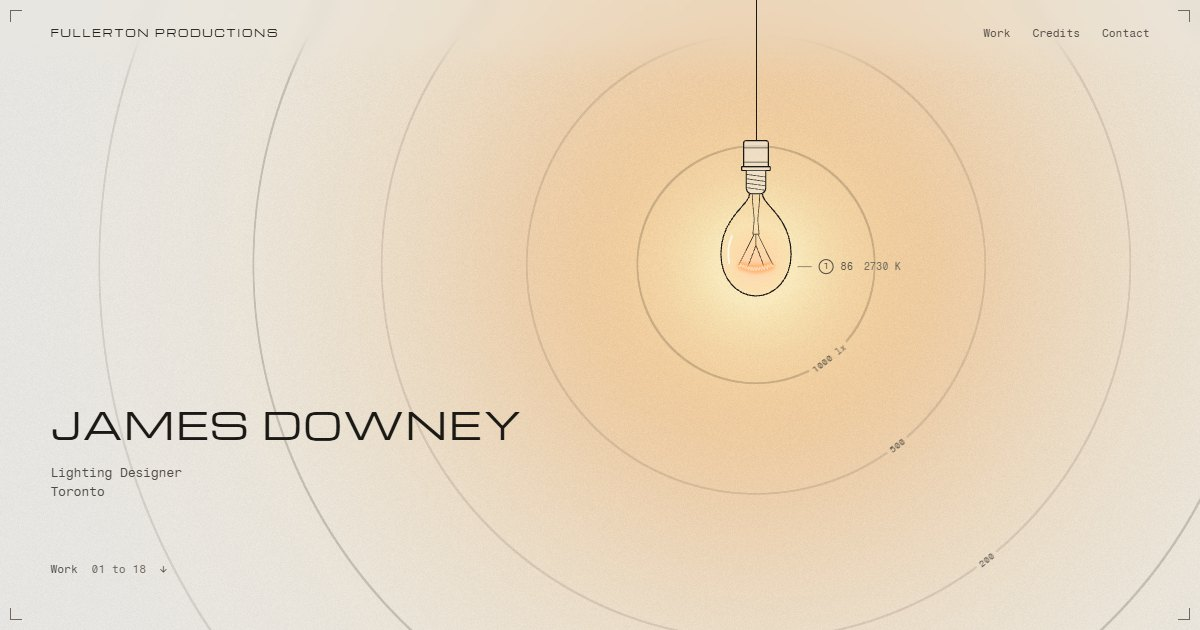
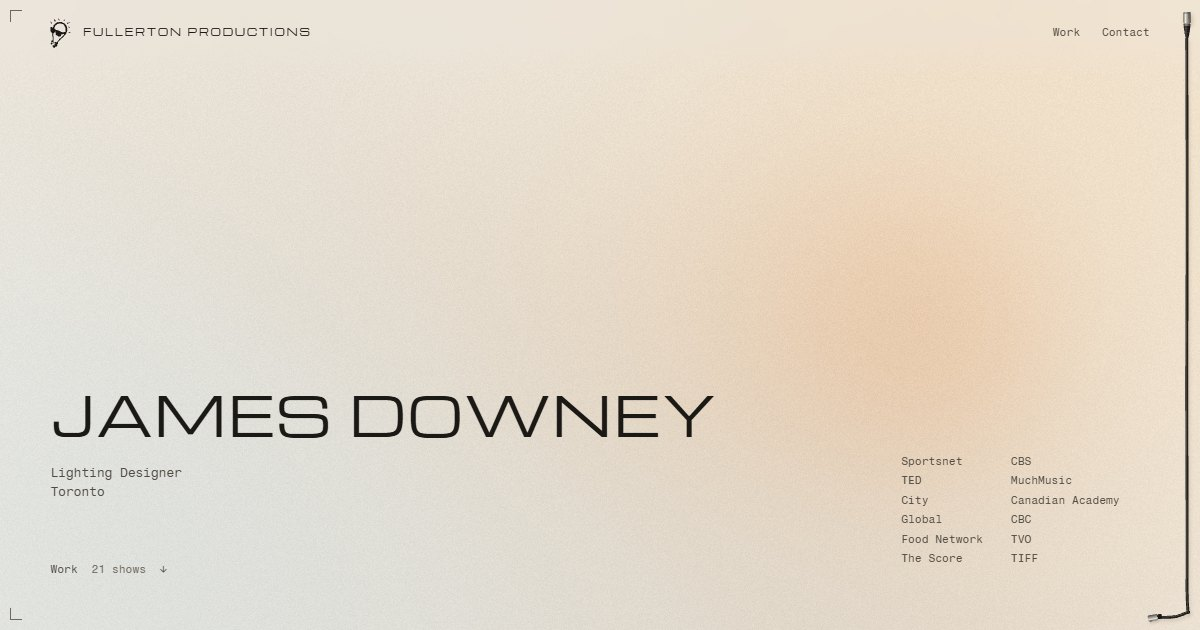
A finger presses the front plate; a new share image
- On a phone, a finger on the front plate makes it lean under the finger and catch the glint; a tap still opens the show.
- public/og.jpg is the new cover.

diff --git a/src/work/showcase.ts b/src/work/showcase.ts
@@ -104,6 +104,17 @@ export class Showcase {
       p.el.addEventListener('pointerleave', (e) => {
         if (e.pointerType === 'mouse' && this.hover === i) this.setHover(-1);
       });
+      // On a phone, a finger on the front plate presses it: it leans under the finger and catches the glint.
+      p.el.addEventListener('pointerdown', (e) => {
+        if (e.pointerType !== 'touch' || i !== this.active) return;
+        this.hover = i;
+        this.aimAt(p.el, e.clientX, e.clientY);
+      });
+      const release = (e: PointerEvent) => {
+        if (e.pointerType === 'touch' && this.hover === i) this.hover = -1;
+      };
+      p.el.addEventListener('pointerup', release);
+      p.el.addEventListener('pointercancel', release);
       p.el.addEventListener('click', () => {
         if (i === this.active) this.onOpen(this.shows[i], this.root.querySelector<HTMLElement>('.sc-open') ?? p.el);
         else this.goTo(i);
@@ -113,12 +124,7 @@ export class Showcase {
       if (e.pointerType !== 'mouse') return;
       this.label.style.transform = `translate3d(${e.clientX}px,${e.clientY}px,0)`;
       const front = this.plates[this.active];
-      if (front && this.hover === this.active) {
-        const r = front.el.getBoundingClientRect();
-        this.aim = { x: ((e.clientX - r.left) / r.width) * 2 - 1, y: ((e.clientY - r.top) / r.height) * 2 - 1 };
-        setVar(front.el, '--sx', `${(((this.aim.x + 1) / 2) * 100).toFixed(1)}%`);
-        setVar(front.el, '--sy', `${(((this.aim.y + 1) / 2) * 100).toFixed(1)}%`);
-      }
+      if (front && this.hover === this.active) this.aimAt(front.el, e.clientX, e.clientY);
     });
     this.ticks.forEach((b, i) => {
       b.addEventListener('click', () => this.goTo(i));
@@ -134,6 +140,14 @@ export class Showcase {
     });
     this.measure();
     this.show(0, true);
+  }
+
+  /** Point the front plate's lean and glint at a spot on the screen. */
+  private aimAt(el: HTMLElement, x: number, y: number) {
+    const r = el.getBoundingClientRect();
+    this.aim = { x: ((x - r.left) / r.width) * 2 - 1, y: ((y - r.top) / r.height) * 2 - 1 };
+    setVar(el, '--sx', `${(((this.aim.x + 1) / 2) * 100).toFixed(1)}%`);
+    setVar(el, '--sy', `${(((this.aim.y + 1) / 2) * 100).toFixed(1)}%`);
   }
 
   /** The page position where show `i` sits in front. */
